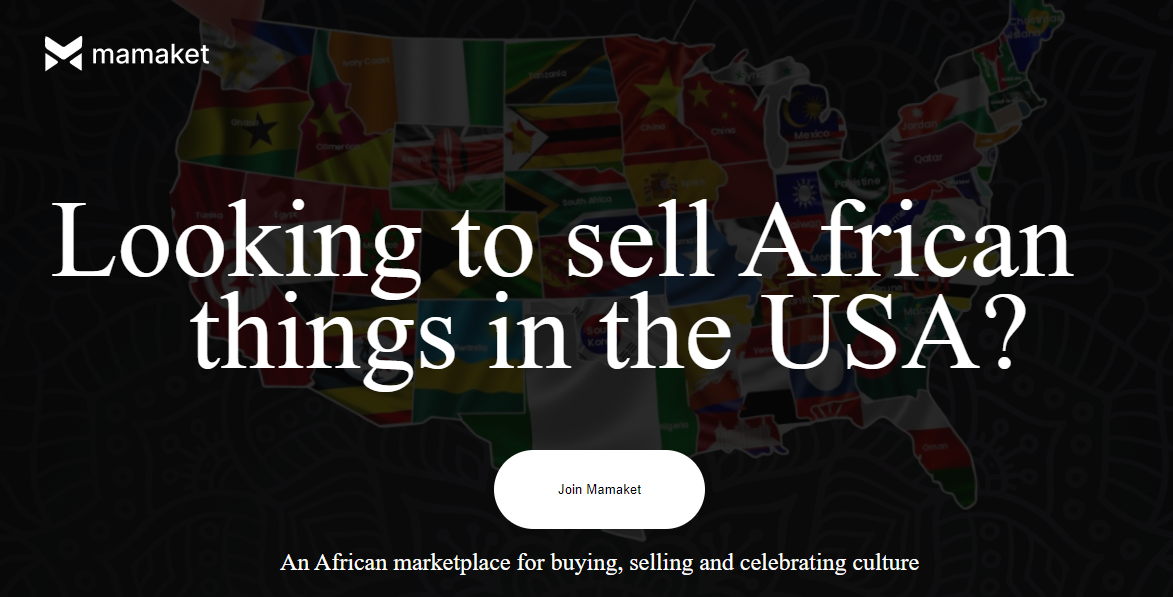
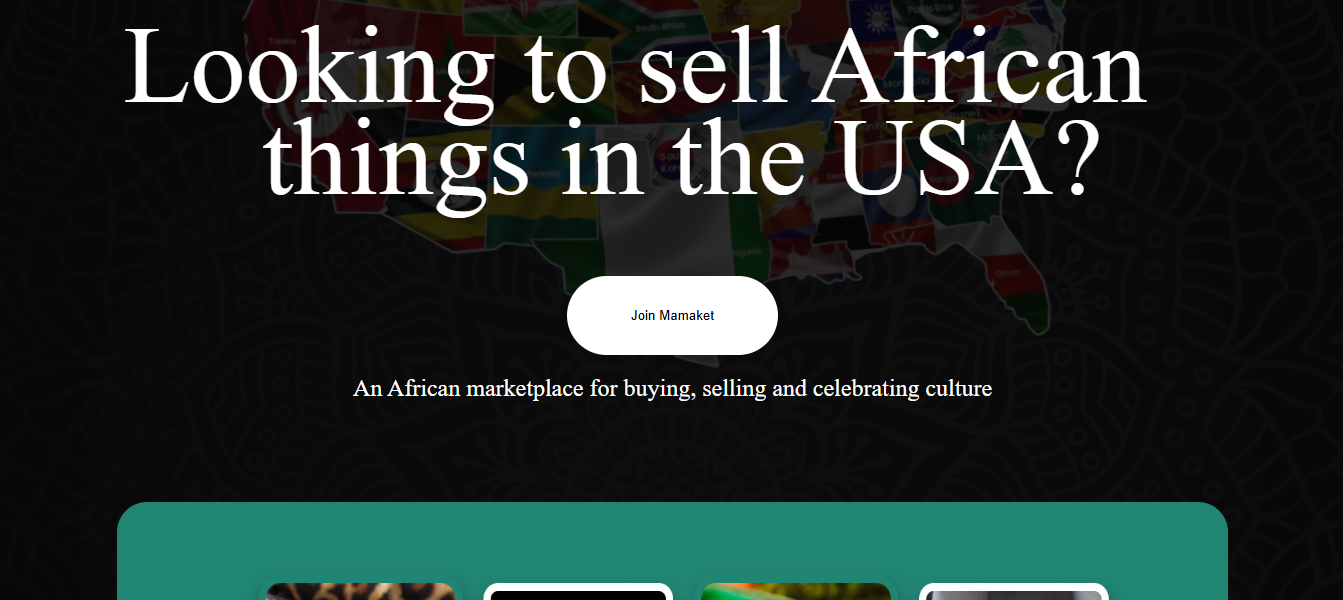
feat: added projects

diff --git a/src/components/projects/Projects.jsx b/src/components/projects/Projects.jsx
@@ -202,6 +202,103 @@ const Projects = () => {
               </div>
             </div>
           </div>
+
+          <div className="relative bg-black rounded-xl overflow-hidden group h-auto w-full">
+            <div
+              data-aos="zoom-out"
+              className="w-full h-[250px] bg-cover bg-center bg-[url('/src/components/assets/project/serenehealth.png')]"
+            ></div>
+            <div className="absolute inset-0 bg-black bg-opacity-50 text-white flex flex-col justify-center items-center p-6 opacity-0 group-hover:opacity-100 transition-all">
+              <h3 className="text-2xl font-semibold mb-3">
+                Serene Scheal Initiative Website
+              </h3>
+              <p className="text-sm text-center mb-4">
+                Built a responsive, accessible website showcasing the Serene
+                Scheal Initiative’s programs and mission.
+              </p>
+              <div className="flex items-center gap-4">
+                <a
+                  href="https://sereneschealdev.vercel.app/"
+                  target="_blank"
+                  rel="noopener noreferrer"
+                  className="text-xl hover:text-blue-400"
+                >
+                  <MdLink />
+                </a>
+                <a
+                  href="https://github.com/Xcoder2023/web_app"
+                  target="_blank"
+                  rel="noopener noreferrer"
+                  className="text-xl hover:text-blue-400"
+                >
+                  <PiGithubLogoLight />
+                </a>
+              </div>
+            </div>
+          </div>
+
+
+
+           <div className="relative bg-black rounded-xl overflow-hidden group h-auto w-full">
+            <div
+              data-aos="zoom-out"
+              className="w-full h-[250px] bg-cover bg-center bg-[url('/src/components/assets/project/mamaket.png')]"
+            ></div>
+            <div className="absolute inset-0 bg-black bg-opacity-50 text-white flex flex-col justify-center items-center p-6 opacity-0 group-hover:opacity-100 transition-all">
+              <h3 className="text-2xl font-semibold mb-3">
+               Mamaket African Marketplace
+              </h3>
+              <p className="text-sm text-center mb-4">
+                Developed a responsive landing page for an African marketplace celebrating culture. Focused on clean design, intuitive navigation, and mobile-friendly performance to engage users and showcase products effectively.
+              </p>
+              <div className="flex items-center gap-4">
+                <a
+                  href="https://mamaket-landing-page.vercel.app/"
+                  target="_blank"
+                  rel="noopener noreferrer"
+                  className="text-xl hover:text-blue-400"
+                >
+                  <MdLink />
+                </a>
+                <a
+                  href="https://github.com/Xcoder2023/mamaket-landing-page"
+                  target="_blank"
+                  rel="noopener noreferrer"
+                  className="text-xl hover:text-blue-400"
+                >
+                  <PiGithubLogoLight />
+                </a>
+              </div>
+            </div>
+          </div>
+
+
+
+              <div className="relative bg-black rounded-xl overflow-hidden group h-auto w-full">
+            <div
+              data-aos="zoom-out"
+              className="w-full h-[250px] bg-cover bg-center bg-[url('/src/components/assets/project/limtech.png')]"
+            ></div>
+            <div className="absolute inset-0 bg-black bg-opacity-50 text-white flex flex-col justify-center items-center p-6 opacity-0 group-hover:opacity-100 transition-all">
+              <h3 className="text-2xl font-semibold mb-3">SimbiTech</h3>
+              <p className="text-sm text-center mb-4">
+              Developed a full, responsive website for SimbiTech, a platform empowering girls to learn, build, and lead in tech. Built with a focus on accessibility, seamless navigation, and mobile optimization to showcase programs, inspire engagement, and support user interaction across the site.
+              </p>
+              <div className="flex items-center gap-4">
+                <a
+                  href="https://simbitech-webapp.onrender.com/"
+                  target="_blank"
+                  rel="noopener noreferrer"
+                  className="text-xl hover:text-blue-400"
+                >
+                  <MdLink />
+                </a>
+                <span className="text-sm italic">
+                  (Code is private; I worked as a collaborator.)
+                </span>
+              </div>
+            </div>
+          </div>
         </section>
       </div>
     </>
